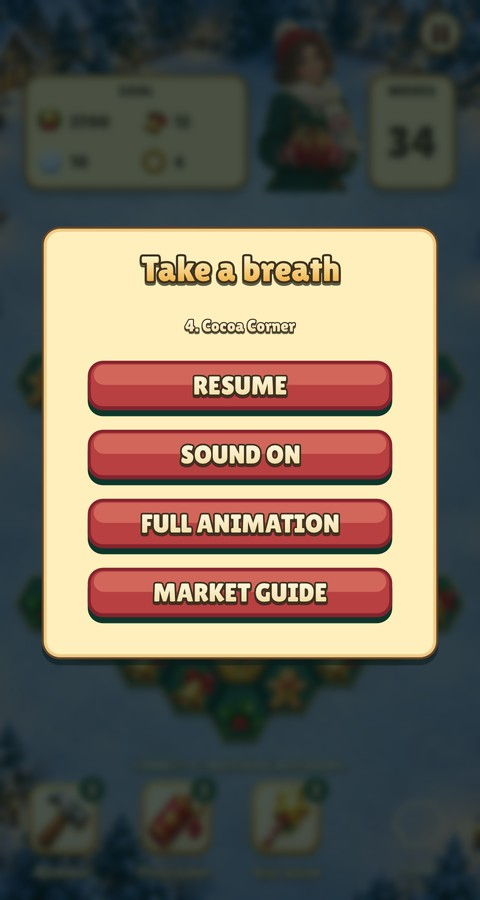
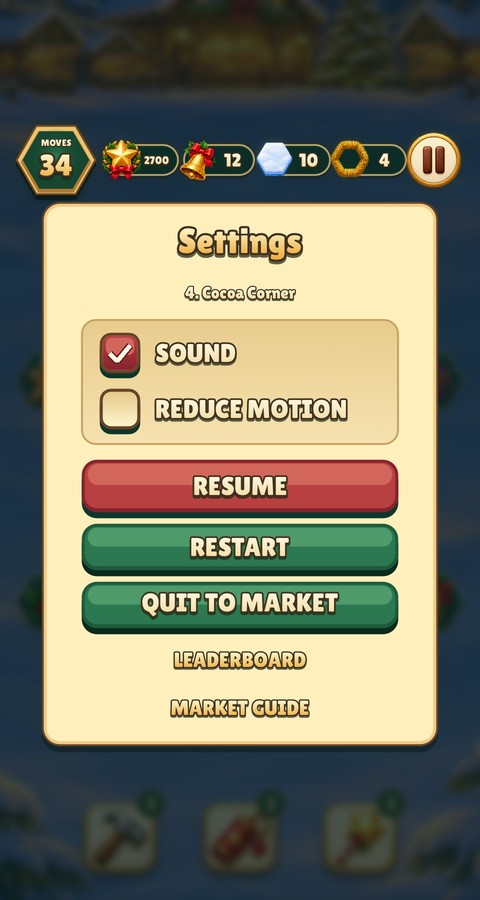
Add Game Center leaderboards to Christmas Market
The same shared dialog as Relic Rush, switched on by data/game.json: a stars
board for the lifetime Christmas Stars and one board per winter wish
(level_01..level_30). Settings gets a LEADERBOARD link and the results card a
LEADERBOARD button, painted by this game's skin. The asset manifest records
the changed game.json.

diff --git a/games/christmas-market/README.md b/games/christmas-market/README.md
@@ -116,6 +116,22 @@ The three-episode script in [docs/story.md](docs/story.md) plays in full: 36 sce
 
 Run `make CFLAGS="-O2 -g -Werror"`, `make test`, and `./build/christmas-market --headless --fresh --mute --smoke` (under Xvfb on Linux). The smoke test uses the shared `city.move_test` for building gestures and covers real clicks through a puzzle win, funded construction, pan/hold/move/cancel/confirm, decoration purchase/cancellation, replay, pause and the next level. A separate Lua campaign test verifies all ten building grants fit the land open by their levels, each region opens on the level Pip announces it, and both decoration purchases preserve campaign progress. Its extended run (`make test-extended`) requires the greedy bot to win every one of the thirty levels at least once without tools. `rules christmas_story` follows every first clear through the story scheduler, interruption, save/read, replays and old-save migration. `--smoke --campaign` plays all thirty levels through the real result, Collect, region, stall card, placement, dialogue and Play controls. Each board's goals are met before one real swap, so it checks the flow rather than the boards. All 36 scenes must play once, in script order, and the run must end on the end screen with ten stalls and every region open. It takes about 35 seconds and runs in `make test-full` (CI), or alone with `build/test/christmas-market "smoke campaign"`.
 
+## Leaderboards
+
+Game Center comes from the engine ([docs/GAMECENTER.md](../../docs/GAMECENTER.md)) and is switched on by the
+`leaderboard` block of `data/game.json`: a **stars** board for the lifetime Christmas Stars (never spent)
+and one board per winter wish (`level_01` to `level_30`) for its best score. Scores are reported when a
+reward is claimed. Settings has a LEADERBOARD link for the stars board and the results card a LEADERBOARD
+button for that wish; both open the shared dialog in this game's red and green skin. Create 31
+leaderboards in App Store Connect (high to low) as `com.corepunch.christmasmarket.stars` and
+`com.corepunch.christmasmarket.level_01` ... `level_30`. Try it with `--gamecenter-demo --dialog leaderboard`.
+
+| Settings | Merriest markets | Results card | Winter wish board |
+| --- | --- | --- | --- |
+| ![Settings with a Leaderboard link](docs/screenshots/pause.jpg) | ![The stars board](docs/screenshots/leaderboard.jpg) | ![Results with a Leaderboard button](docs/screenshots/reward.jpg) | ![One wish's board](docs/screenshots/level-leaderboard.jpg) |
+
+![The stars board on a 390x844 phone](docs/screenshots/phone-leaderboard.jpg)
+
 `python3 games/christmas-market/tools/check_assets.py` verifies the 125-file runtime inventory (five of them temporary name-card busts), 37 buildings, all forty authored atlas crops and eleven native icon slots. `python3 games/christmas-market/tools/capture_screenshots.py` reproduces the review captures; pass names such as `market phone-market` to capture a subset. Use `xvfb-run -a` on Linux. CI also builds the iOS Simulator target and the WebAssembly game.
 
 ## Fast rule tests

diff --git a/games/christmas-market/docs/asset-catalogue.md b/games/christmas-market/docs/asset-catalogue.md
@@ -269,6 +269,16 @@ focus with the skin's focus style. Sound and Reduce Motion use the same
 checkbox control. Review the panel with
 `build/test/christmas-market "shot pause" "shot phone-pause"`.
 
+Settings also has a LEADERBOARD link and the results card a LEADERBOARD button, which open
+the engine's shared leaderboard dialog ([docs/GAMECENTER.md](../../../docs/GAMECENTER.md)) in this
+game's skin: Everyone / Friends tabs (the chosen one a red button, the other a flat caption), rows of
+rank, portrait, name and score, loading / empty / signed-out notes, and Game Center and Close buttons.
+No artwork is added: every state is skin paint, and portraits come from Game Center at runtime.
+Reviewed captures: [Settings](screenshots/pause.jpg), [the stars board](screenshots/leaderboard.jpg),
+[a wish's board](screenshots/level-leaderboard.jpg), [the 390×844 phone](screenshots/phone-leaderboard.jpg)
+and [the results card](screenshots/reward.jpg), from `build/test/christmas-market "shot leaderboard"` ...
+with `--gamecenter-demo`.
+
 ## Engine match-3 atlas and trickling
 
 `data/match3.png`, registered by `lua/match3_skin.lua` and
